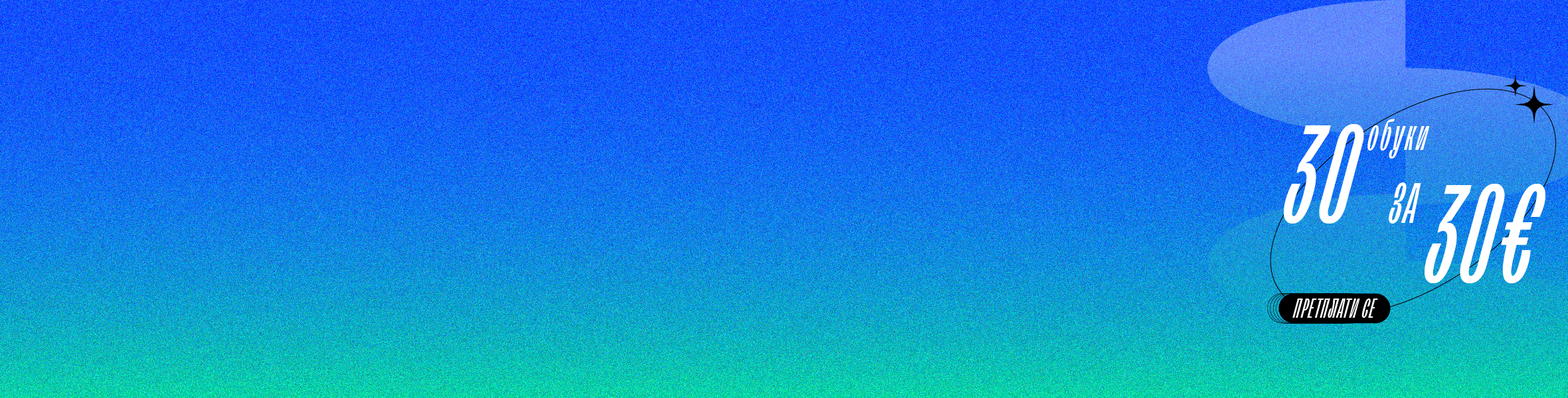
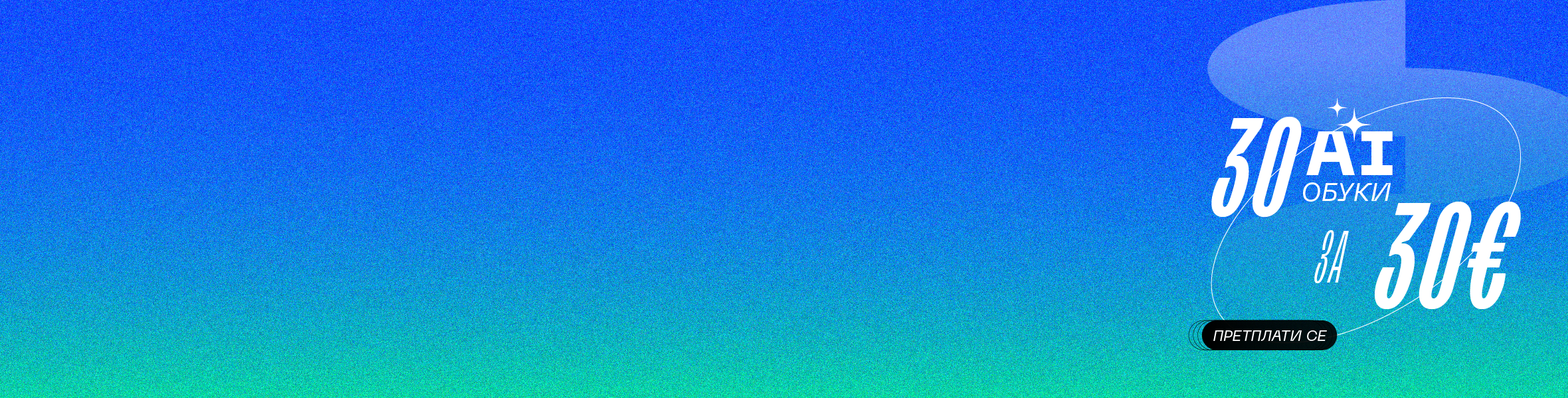
update

Changed region(s): [[0.7421, 0.27, 0.9894, 0.9], [0.9585, 0.21, 0.9894, 0.3], [0.8967, 0.24, 0.9276, 0.27]]

diff --git a/assets/css/style.css b/assets/css/style.css
@@ -5545,6 +5545,15 @@ thead {
     background-color: rgba(255, 255, 255, 0.7);
     background-blend-mode: overlay; 
 }
+.agenda-30-bg{
+    width: 100%;
+    background-image: url('../../assets/images/agenda-bg.png');
+    background-size: cover; 
+    background-position: right center; 
+    background-repeat: no-repeat; 
+    background-color: rgba(255, 255, 255, 0.7);
+    background-blend-mode: overlay; 
+}
 
 .first-image {
     width: 100%;

diff --git a/30-za-30.html b/30-za-30.html
@@ -440,7 +440,7 @@
     </div> -->
 
     <div class="app-feature app-feature-1">
-        <div class="app-feature-wrapper agenda-bg">
+        <div class="app-feature-wrapper agenda-30-bg">
 
             <div class="container">
                 <div class="row">
